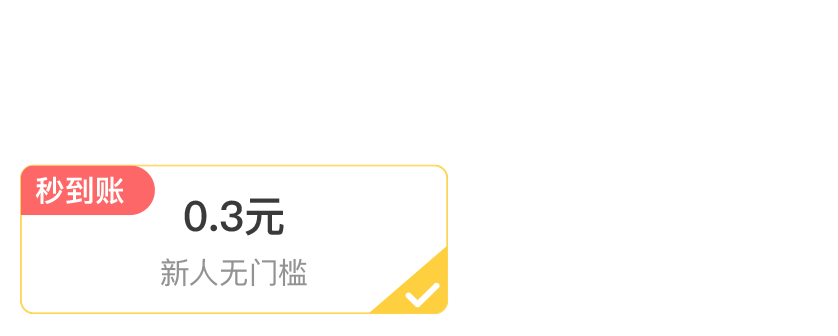
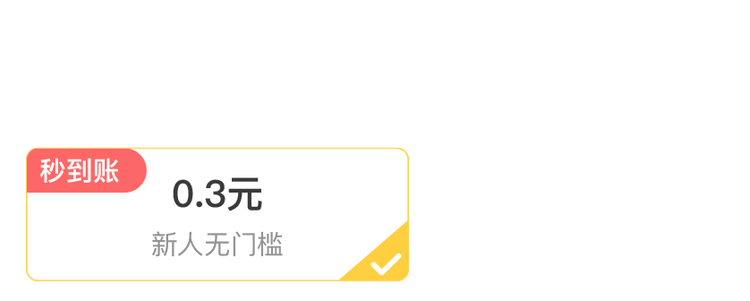
YXSP-102 完善新人提现引导

diff --git a/src/screens/home/index.tsx b/src/screens/home/index.tsx
@@ -16,16 +16,16 @@ import NewUserTaskGuidance from './components/NewUserTaskGuidance';
 import { ad } from 'react-native-ad';
 
 // 监听新用户登录
-// when(
-//     () => adStore.enableAd && adStore.enableWallet && userStore?.me?.isNewUser;,
-//     () => {
-//         // 新手指导
-//         BeginnerGuidance({
-//             guidanceKey: 'NewUserTask',
-//             GuidanceView: NewUserTaskGuidance,
-//         });
-//     },
-// );
+when(
+    () => adStore.enableAd && adStore.enableWallet && userStore?.me.isNewUser,
+    () => {
+        // 新手指导
+        BeginnerGuidance({
+            guidanceKey: 'NewUserTask',
+            GuidanceView: NewUserTaskGuidance,
+        });
+    },
+);
 // setTimeout(() => {
 //     BeginnerGuidance({
 //         guidanceKey: 'NewUserTask',

diff --git a/src/screens/home/components/NewUserTaskGuidance.tsx b/src/screens/home/components/NewUserTaskGuidance.tsx
@@ -61,7 +61,7 @@ const taskGuideHeight = (taskGuideWidth * 750) / 790;
 const walletGuideWidth = Device.WIDTH - pixel(30);
 const walletGuideHeight = (walletGuideWidth * 838) / 336;
 
-const WalletBgWidth = (Device.WIDTH - pixel(20)) * 0.66;
+const WalletBgWidth = pixel(100);
 
 const styles = StyleSheet.create({
     container: {
